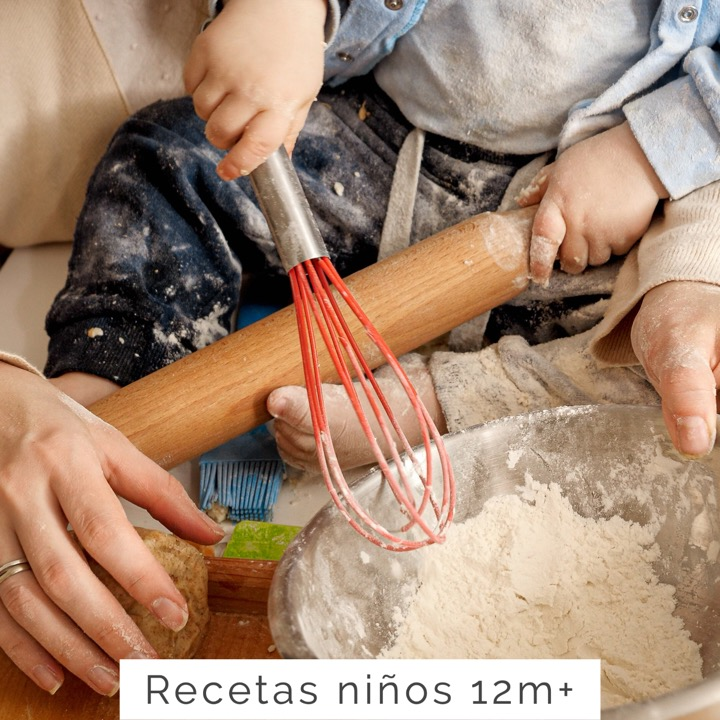
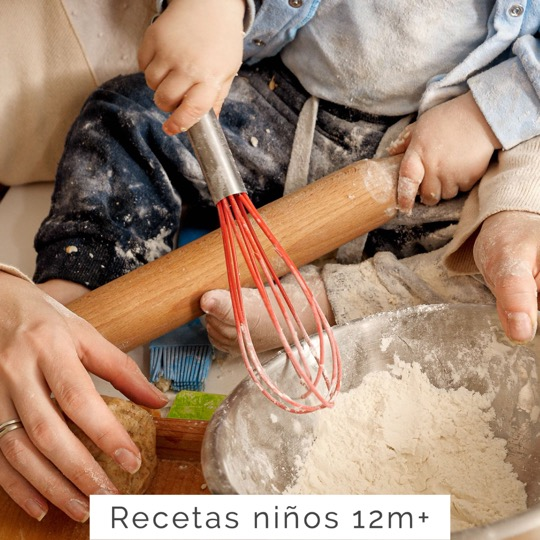
cambio tamaño de imágenes a 540x540px

diff --git a/css/style.css b/css/style.css
@@ -56,7 +56,7 @@ h2 {
   font-size: 18px;
   font-weight: 600;
   letter-spacing: .1px;
-  text-transform: capitalize;
+  text-transform: initial;
   text-align: center; }
 
 /*** H3 ***/

diff --git a/scss/partials/_globales.scss b/scss/partials/_globales.scss
@@ -52,7 +52,7 @@ h2{
 
 .h2-pages{
     @include h-normal;
-    text-transform: capitalize;
+    text-transform: initial;
     text-align: center;
 }
 
